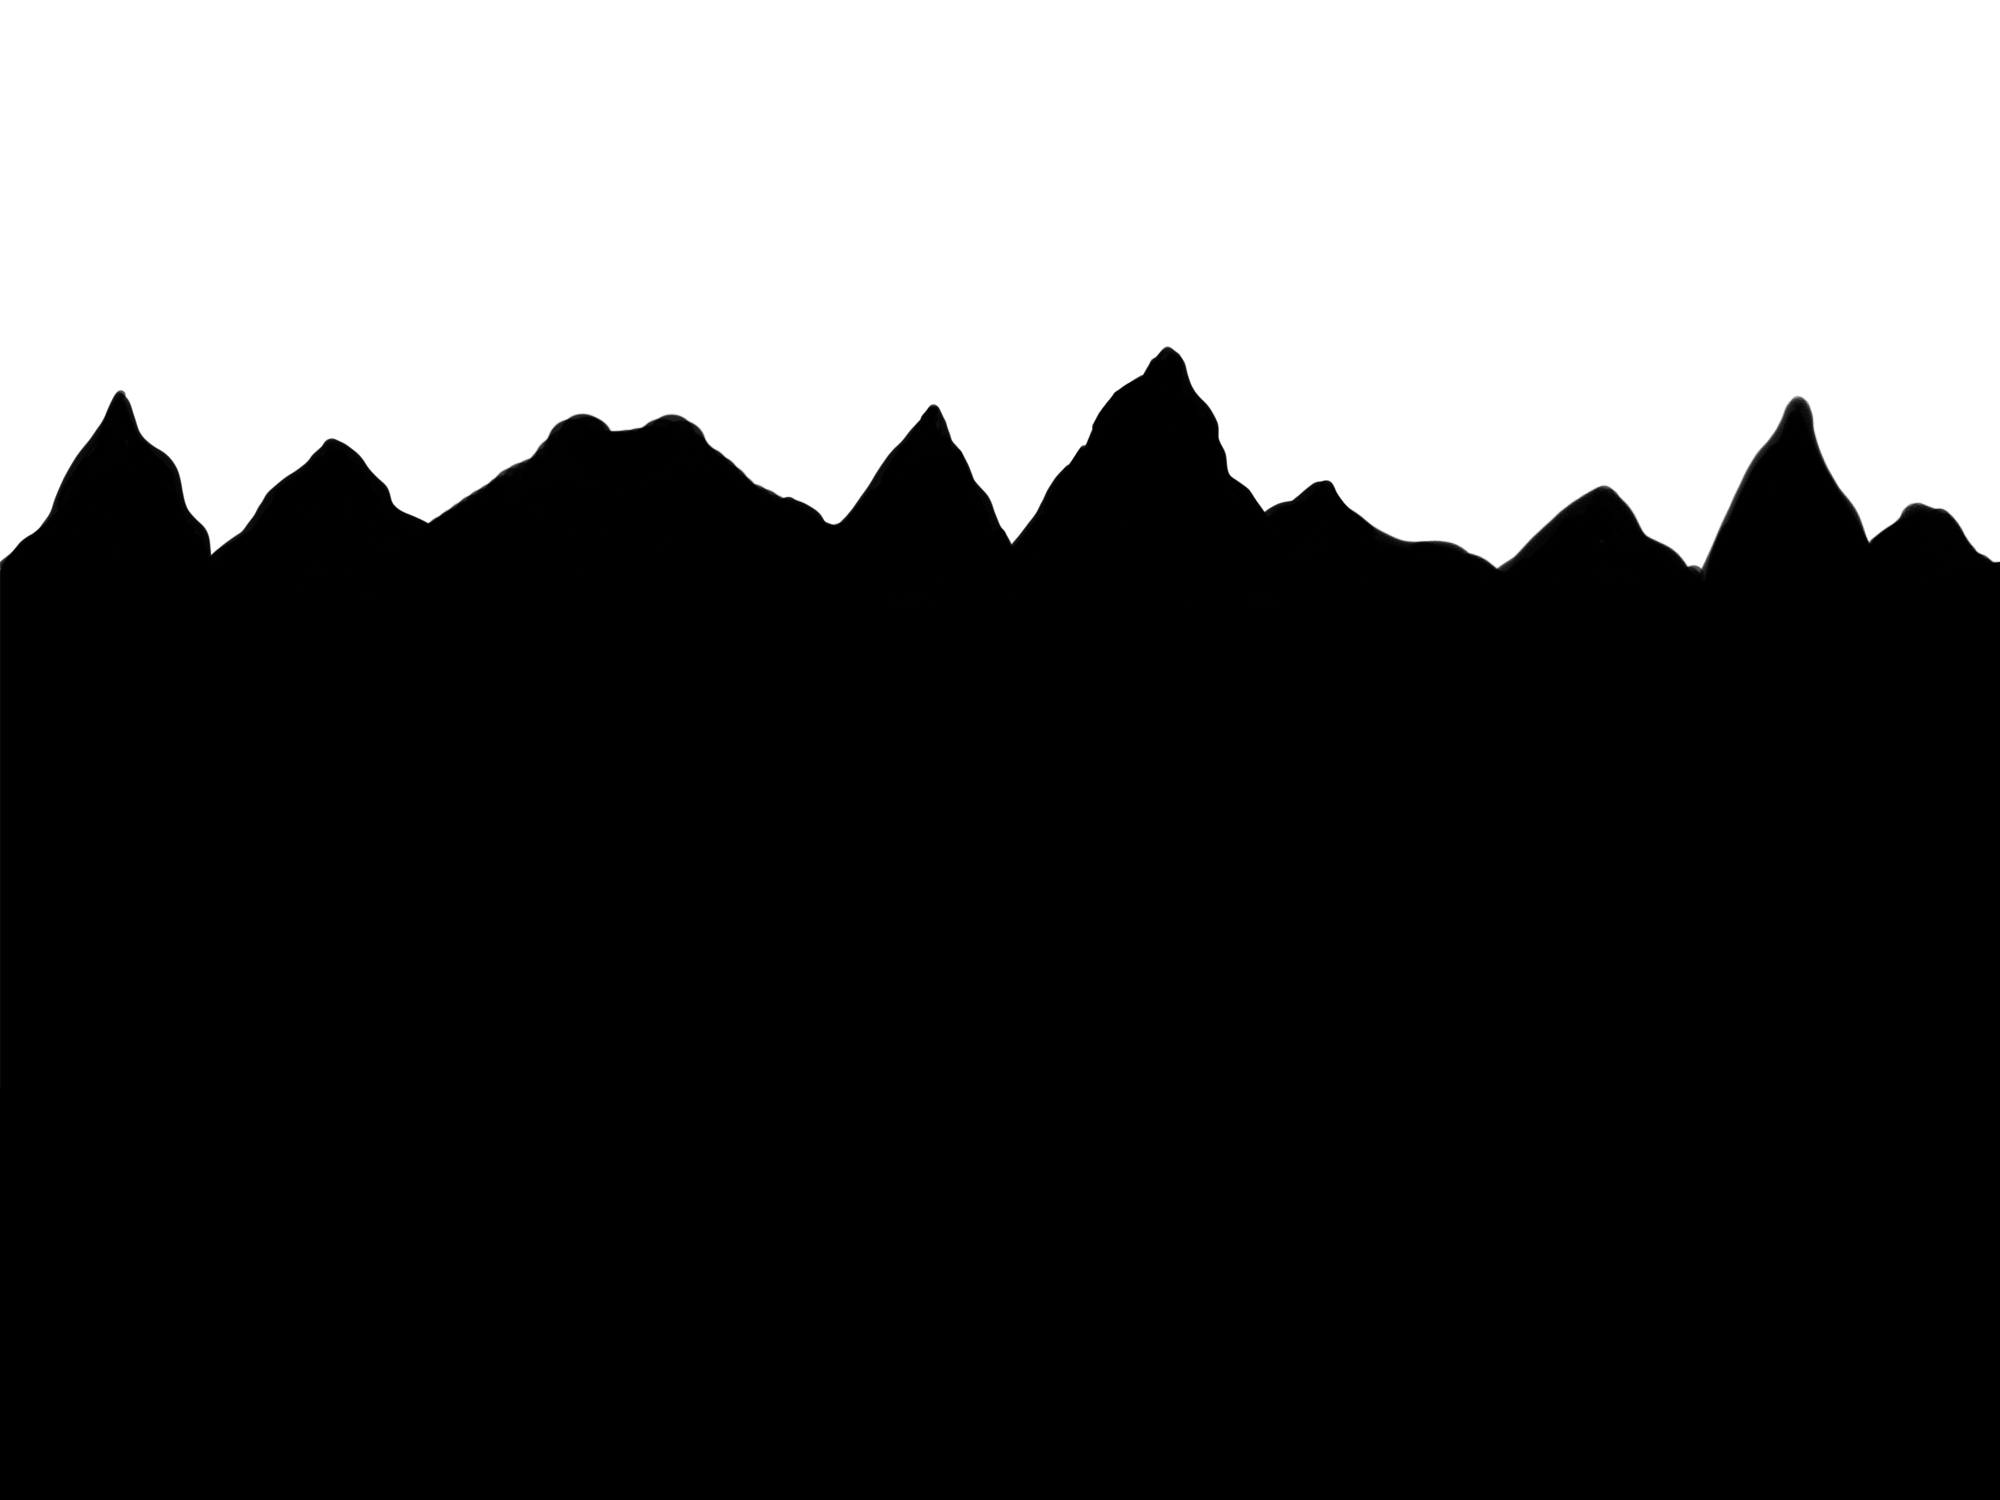
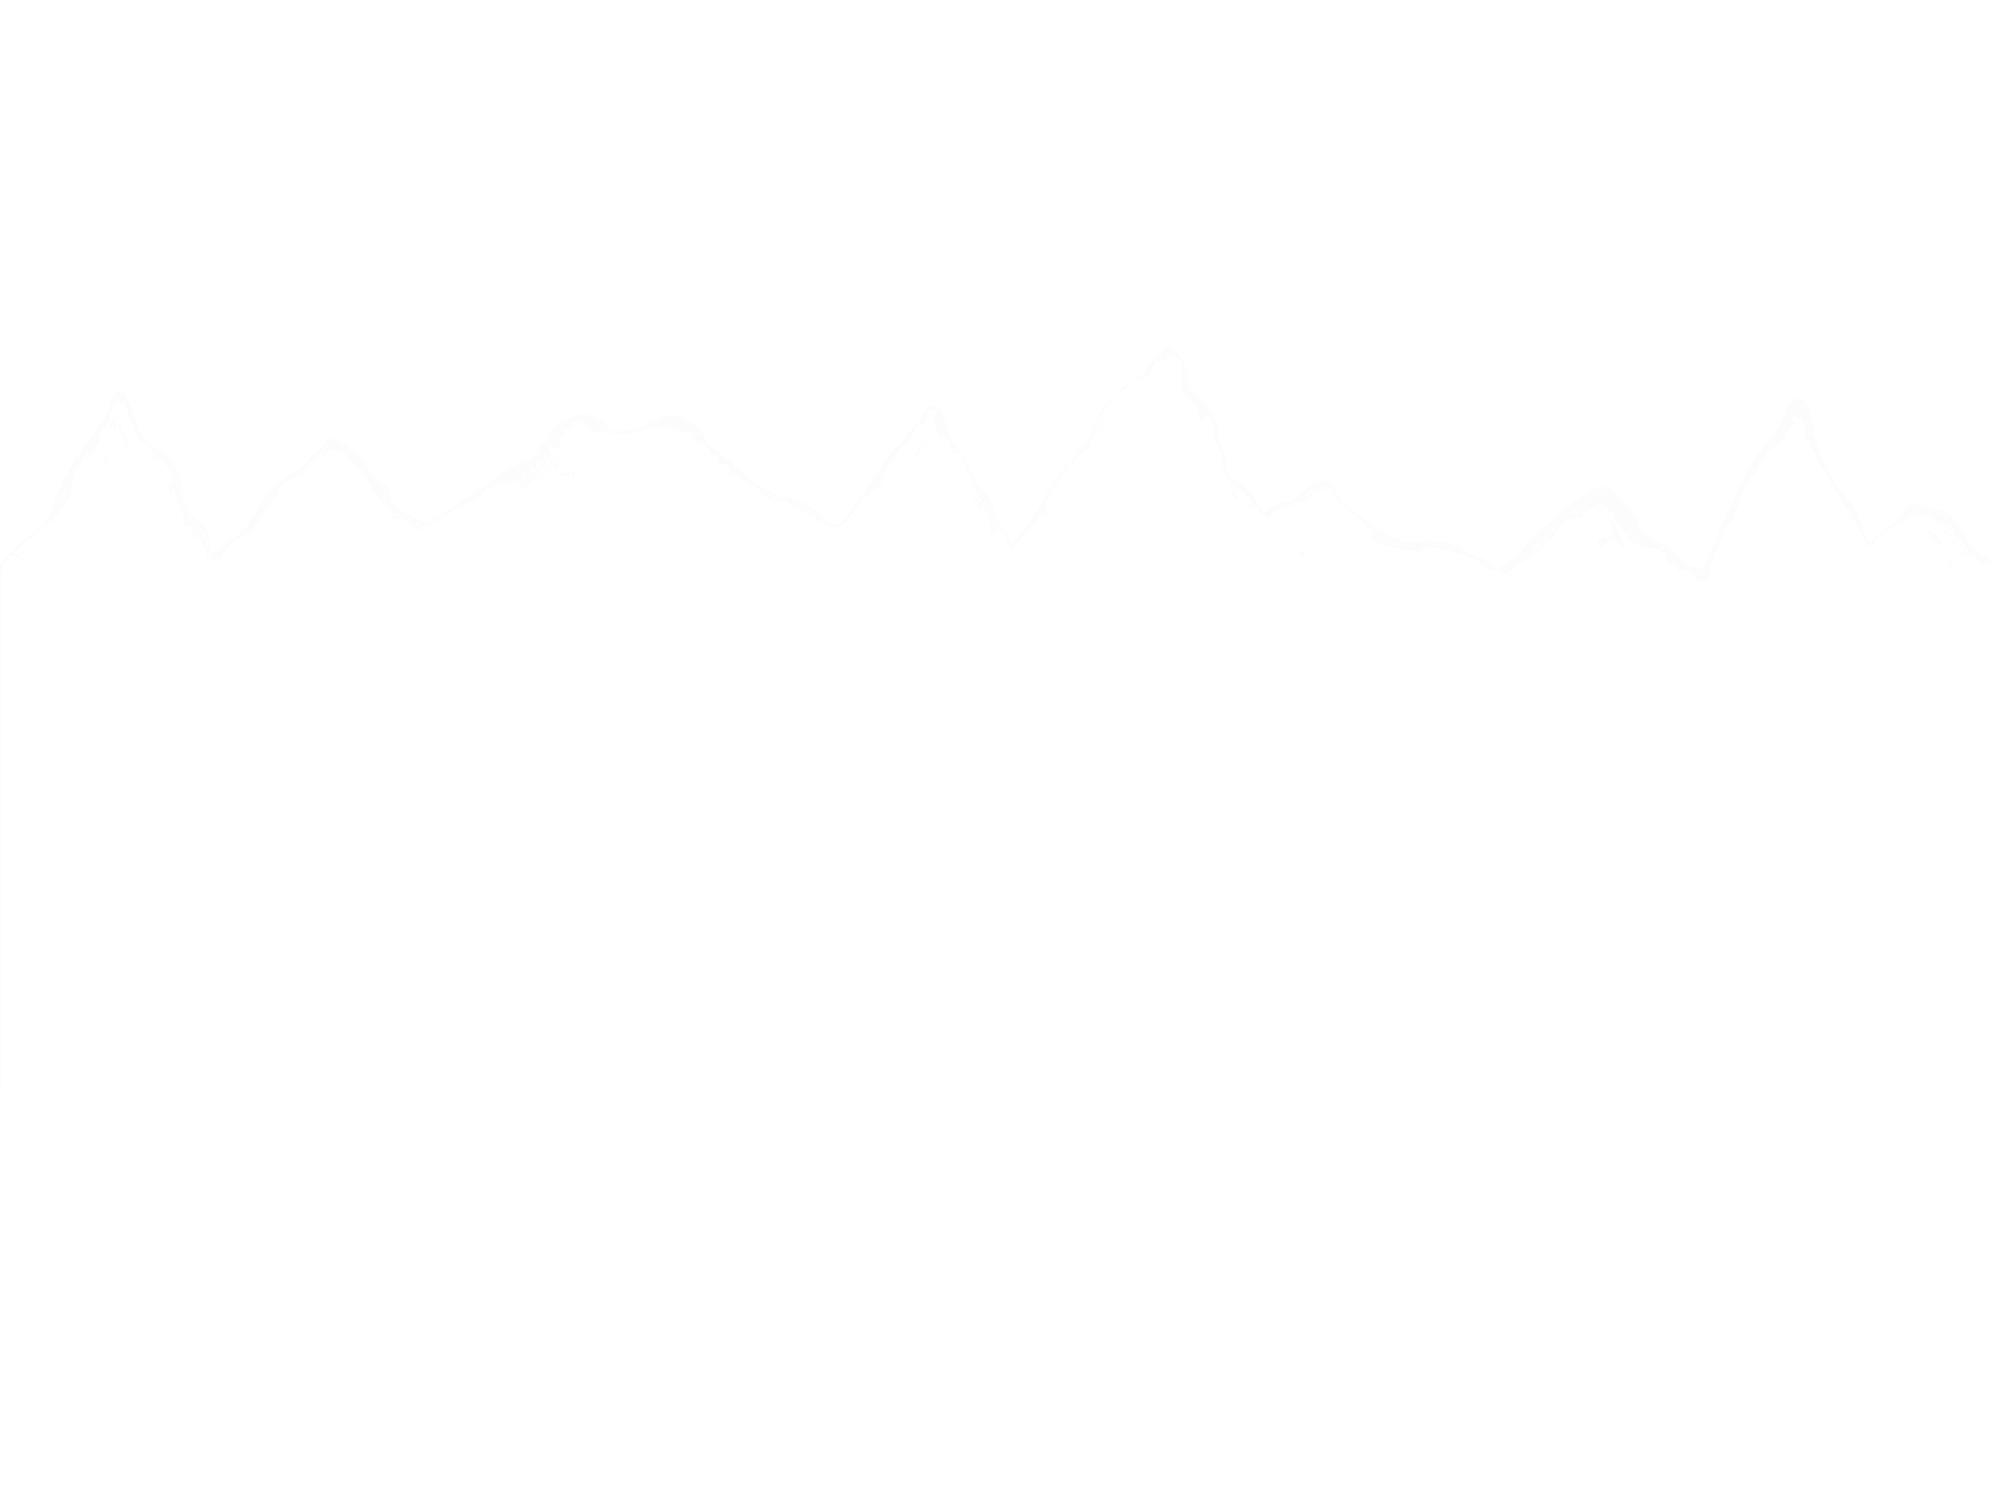
Background added

diff --git a/Assignment/Assignment/Background.cs b/Assignment/Assignment/Background.cs
@@ -1,0 +1,78 @@
+using System;
+using System.Collections.Generic;
+using System.Linq;
+using Microsoft.Xna.Framework;
+using Microsoft.Xna.Framework.Audio;
+using Microsoft.Xna.Framework.Content;
+using Microsoft.Xna.Framework.GamerServices;
+using Microsoft.Xna.Framework.Graphics;
+using Microsoft.Xna.Framework.Input;
+using Microsoft.Xna.Framework.Media;
+
+
+namespace Assignment
+{
+    /// <summary>
+    /// This is a game component that implements IUpdateable.
+    /// </summary>
+    public class Background : Microsoft.Xna.Framework.GameComponent
+    {
+
+        public List<BackgroundElement> back;
+        public List<BackgroundElement> farBack;
+
+        public Background(Game1 game)
+            : base(game)
+        {
+            back = new List<BackgroundElement>();
+            farBack = new List<BackgroundElement>();
+
+            int statX = 0;
+            Texture2D tex = game.Content.Load<Texture2D>(@"Backgrounds/bg_0");
+            for (int i = 0; i < 4; i++)
+            {
+                BackgroundElement b = new BackgroundElement(game, tex, 0.3f, statX, 0.2f, 0.25f);
+                this.farBack.Add(b);
+                statX += (int)(tex.Bounds.Width * b.scale);
+            }
+
+            statX = 0;
+            tex = game.Content.Load<Texture2D>(@"Backgrounds/bg_1");
+            for (int i = 0; i < 4; i++)
+            {
+                BackgroundElement b = new BackgroundElement(game, tex, 0.3f, statX, 0.4f, 0.3f);
+                this.farBack.Add(b);
+                statX += (int)(tex.Bounds.Width * b.scale);
+
+                //Console.WriteLine("Covered in terrains: {0} rad, left uncovered: {1}", angle - 4.4f, 2 * Math.PI - angle + 4.4f);
+            }
+        }
+
+        public override void Initialize()
+        {
+            // TODO: Add your initialization code here
+
+            base.Initialize();
+        }
+
+        public override void Update(GameTime gameTime)
+        {
+           
+            foreach (var bg in this.farBack)
+            {
+                bg.Update(gameTime);
+            }
+
+
+            base.Update(gameTime);
+        }
+
+        public virtual void Draw(SpriteBatch batch)
+        {
+            foreach (var bg in this.farBack)
+            {
+                    bg.Draw(batch);
+            }
+        }
+    }
+}

diff --git a/Assignment/Assignment/BackgroundElement.cs b/Assignment/Assignment/BackgroundElement.cs
@@ -1,0 +1,78 @@
+using System;
+using System.Collections.Generic;
+using System.Linq;
+using Microsoft.Xna.Framework;
+using Microsoft.Xna.Framework.Audio;
+using Microsoft.Xna.Framework.Content;
+using Microsoft.Xna.Framework.GamerServices;
+using Microsoft.Xna.Framework.Graphics;
+using Microsoft.Xna.Framework.Input;
+using Microsoft.Xna.Framework.Media;
+
+
+namespace Assignment
+{
+    /// <summary>
+    /// This is a game component that implements IUpdateable.
+    /// </summary>
+    public class BackgroundElement : Microsoft.Xna.Framework.GameComponent
+    {
+        public Texture2D texture;
+        Vector2 position;
+        Game1 game;
+        public float alpha;
+        public float xOffset;
+        public float movementOffset;
+        public float scale;
+        public bool isOnScreen;
+
+        public BackgroundElement(Game1 game, Texture2D texture, float alpha, int startX, float movementOffset, float xOffset)
+            : base(game)
+        {
+            this.game = game;
+            this.texture = texture;
+            this.alpha = alpha;
+            this.position.X = startX;
+            this.movementOffset = movementOffset;
+            this.xOffset = xOffset;
+
+            scale = 0.25f;
+        }
+
+        /// <summary>
+        /// Allows the game component to perform any initialization it needs to before starting
+        /// to run.  This is where it can query for any required services and load content.
+        /// </summary>
+        public override void Initialize()
+        {
+            // TODO: Add your initialization code here
+
+            base.Initialize();
+        }
+
+        public override void Update(GameTime gameTime)
+        {
+            position.X -= movementOffset;
+            position.Y = (int)(game.screenHeight * xOffset);
+
+            if (position.X < 0 - texture.Width*scale)
+            {
+                position.X = texture.Width * scale * 3;
+            }
+
+
+        }
+
+        public void adjustPosition()
+        {
+           
+        }
+
+        public virtual void Draw(SpriteBatch batch)
+        {
+            Color c = new Color(0, 0, 0, alpha);
+            //c.A = (byte) alpha;
+            batch.Draw(texture, position, null, c, 0, Vector2.Zero, scale, SpriteEffects.None, 0f);
+        }
+    }
+}

diff --git a/Assignment/Assignment/Game1.cs b/Assignment/Assignment/Game1.cs
@@ -24,7 +24,7 @@ namespace Assignment
         public Earth earth;
         public Player player;
         public Bird bird;
-        public Fly fly;
+        public Background background;
 
         public int screenWidth;
         public int screenHeight;
@@ -58,6 +58,7 @@ namespace Assignment
             this.earth = new Earth(this);
             this.player = new Player(this);
             this.bird = new Bird(this);
+            this.background = new Background(this);
             
         }
 
@@ -92,6 +93,7 @@ namespace Assignment
 
             base.Update(gameTime);
             earth.Update(gameTime);
+            background.Update(gameTime);
             if (gameState == GameState.InGame)
             {
                 player.Update(gameTime);
@@ -118,6 +120,7 @@ namespace Assignment
             GraphicsDevice.Clear(Color.Yellow);
             spriteBatch.Begin();
 
+            background.Draw(spriteBatch);
             earth.Draw(spriteBatch, gameTime);
             
             
